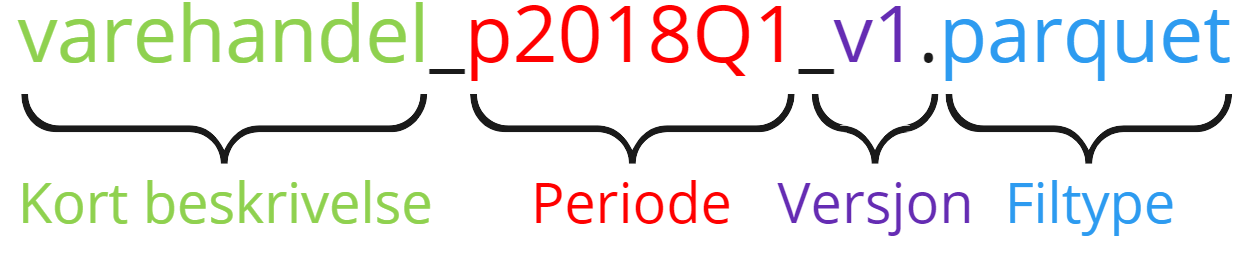
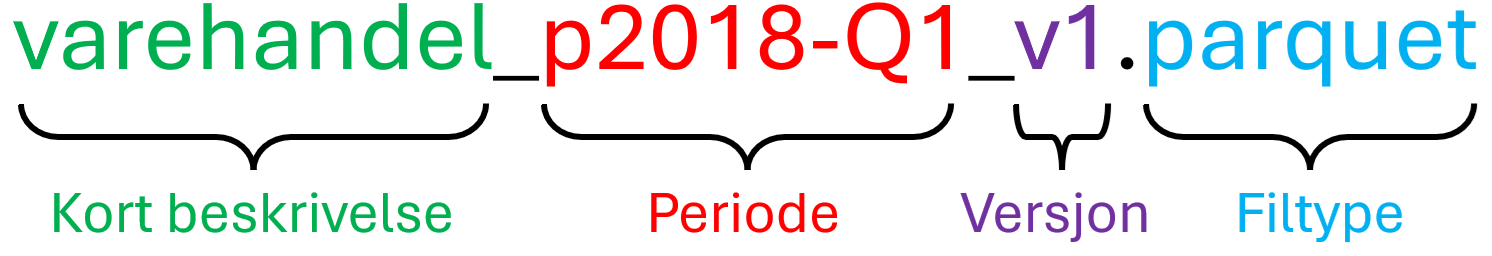
Built site for gh-pages

diff --git a/statistikkere/navnestandard.html b/statistikkere/navnestandard.html
@@ -726,7 +726,7 @@ Figur&nbsp;1: De ulike delene av et standardisert filnavn
 </figcaption>
 </figure>
 </div>
-<p>Eksempelet i <a href="#fig-filename-breakdown" class="quarto-xref">Figur&nbsp;1</a> har <strong>varehandel</strong> som kort beskrivelse, dataene er gyldige for <strong>2018Q1</strong>, versjon er <strong>1</strong> og filtypen er <strong>parquet</strong>. I tillegg ser vi at periodeangivelse alltid skal prefixes med <strong>p</strong> og versjon med <strong>v</strong>. Elementene i filnavnet skal skilles med understrek.</p>
+<p>Eksempelet i <a href="#fig-filename-breakdown" class="quarto-xref">Figur&nbsp;1</a> har <strong>varehandel</strong> som kort beskrivelse, dataene er gyldige for <strong>2018-Q1</strong>, versjon er <strong>1</strong> og filtypen er <strong>parquet</strong>. I tillegg ser vi at periodeangivelse alltid skal prefixes med <strong>p</strong> og versjon med <strong>v</strong>. Elementene i filnavnet skal skilles med understrek.</p>
 <p>Det er også verdt å merke seg at mellomrom og særnorske bokstaver som <strong>æ</strong>, <strong>ø</strong> og <strong>å</strong> ikke forekommer i filnavnet. Følgende alfanumeriske tegn kan benyttes i fil- og mappenavn:</p>
 <ul>
 <li><strong>a</strong>-<strong>z</strong> og <strong>A</strong>-<strong>Z</strong><a href="#fn2" class="footnote-ref" id="fnref2" role="doc-noteref"><sup>2</sup></a>.</li>
@@ -750,11 +750,11 @@ Tabell&nbsp;1: Autonomitet og tilganger i IaC-repo
 <tbody>
 <tr class="odd">
 <td>Kort beskrivelse</td>
-<td>Kort tekst som forklarer datasettets innhold, f.eks. “varehandel”, “personinntekt”, “grensehandel_imputert” eller “framskrevne-befolkningsendringer”</td>
+<td>Kort tekst som forklarer datasettets innhold, f.eks. “varehandel” eller “personinntekt”. Bruk bindestrek hvis beskrivelsen består av flere ord, f.eks. “grensehandel-imputert” eller “framskrevne-befolkningsendringer”.</td>
 </tr>
 <tr class="even">
 <td>Periode - inneholder data f.o.m. dato</td>
-<td>Datasettet inneholder data fra og med dato/tidspunkt. I filnavnet må perioden prefikses med “_p”, eksempel “_p2022” eller “_p2022-01-01”.&nbsp;“_p”&nbsp;er en forkortelse for “periode”.&nbsp;Se også <a href="https://statistics-norway.atlassian.net/wiki/spaces/MPD/pages/2953084957/Standardformater#Dato--og-tidsformater-(ISO-8601)">gyldige&nbsp;formater for periode (dato/tidspunkt)</a></td>
+<td>Datasettet inneholder data fra og med dato/tidspunkt. I filnavnet må perioden prefikses med “_p”, eksempel “_p2022” eller “_p2022-01-01”.&nbsp;Se også <a href="https://statistics-norway.atlassian.net/wiki/spaces/MPD/pages/2953084957/Standardformater#Dato--og-tidsformater-(ISO-8601)">gyldige&nbsp;formater for periode (dato/tidspunkt)</a></td>
 </tr>
 <tr class="odd">
 <td>Periode - inneholder data t.o.m. dato</td>
@@ -790,11 +790,11 @@ Tabell&nbsp;1: Autonomitet og tilganger i IaC-repo
 <tbody>
 <tr class="odd">
 <td>Én årgang med data</td>
-<td><em>flygende_objekter_p2019_v1.parquet</em></td>
+<td><em>flygende-objekter_p2019_v1.parquet</em></td>
 </tr>
 <tr class="even">
 <td>To årganger med data</td>
-<td><em>ufo_observasjoner_p2019_p2020_v1.parquet</em></td>
+<td><em>ufo-observasjoner_p2019_p2020_v1.parquet</em></td>
 </tr>
 <tr class="odd">
 <td>Fra 2019 til 2050</td>
@@ -810,31 +810,39 @@ Tabell&nbsp;1: Autonomitet og tilganger i IaC-repo
 </tr>
 <tr class="even">
 <td>Oktober, november og desember 2022</td>
-<td><em>grensehandel_imputert_p2022-10_p2022-12_v1.parquet</em></td>
+<td><em>grensehandel-imputert_p2022-10_p2022-12_v1.parquet</em></td>
 </tr>
 <tr class="odd">
+<td>Uke-nummer 1</td>
+<td><em>omsetning_p2020-W01_v1.parquet</em></td>
+</tr>
+<tr class="even">
 <td>Uke-nummer 15</td>
-<td><em>omsetning_p2020W15_v1.parquet</em></td>
+<td><em>omsetning_p2020-W15_v1.parquet</em></td>
 </tr>
-<tr class="even">
+<tr class="odd">
 <td>Første bimester i 2022</td>
-<td><em>skipsanloep_p2022B1_v1.parquet</em></td>
+<td><em>skipsanloep_p2022-B1_v1.parquet</em></td>
 </tr>
-<tr class="odd">
+<tr class="even">
 <td>Første kvartal i 2018 (quarter)</td>
-<td><em>pensjon_p2018Q1_v1.parquet</em></td>
-</tr>
-<tr class="even">
-<td>Første tertial i 2022</td>
-<td><em>nybilreg_p2022T1_v1.parquet</em></td>
+<td><em>pensjon_p2018-Q1_v1.parquet</em></td>
 </tr>
 <tr class="odd">
-<td>Første halvår i 2022</td>
-<td><em>personinntekt_p2022H1_v1.parquet</em></td>
+<td>Første tertial i 2022</td>
+<td><em>nybilreg_p2022-T1_v1.parquet</em></td>
 </tr>
 <tr class="even">
+<td>Første halvår i 2022</td>
+<td><em>personinntekt_p2022-H1_v1.parquet</em></td>
+</tr>
+<tr class="odd">
 <td>Kvartalene 1, 2, 3 og 4 i 2018</td>
-<td><em>varehandel_p2018Q1_p2018Q4_v1.parquet</em></td>
+<td><em>varehandel_p2018-Q1_p2018-Q4_v1.parquet</em></td>
+</tr>
+<tr class="even">
+<td>Dato 31.12.2024 og tid 23:59:30.000</td>
+<td><em>skjema_p2024-12-31T23-59-30.000_v1.parquet</em></td>
 </tr>
 </tbody>
 </table>
@@ -871,34 +879,34 @@ Tabell&nbsp;1: Autonomitet og tilganger i IaC-repo
 <div class="sourceCode" id="cb4" data-filename="Produktbøtta: ledstill, sykefra og ameld"><pre class="sourceCode yaml code-with-copy"><code class="sourceCode yaml"><span id="cb4-1"><a href="#cb4-1" aria-hidden="true" tabindex="-1"></a><span class="at">ssb-dapla-example-data-produkt-prod/</span></span>
 <span id="cb4-2"><a href="#cb4-2" aria-hidden="true" tabindex="-1"></a><span class="at">└─ ledstill/  </span></span>
 <span id="cb4-3"><a href="#cb4-3" aria-hidden="true" tabindex="-1"></a><span class="at">    ├── inndata/</span></span>
-<span id="cb4-4"><a href="#cb4-4" aria-hidden="true" tabindex="-1"></a><span class="at">    │   ├── skjema_p2024Q1_v1.parquet</span></span>
-<span id="cb4-5"><a href="#cb4-5" aria-hidden="true" tabindex="-1"></a><span class="at">    │   ├── skjema_p2024Q2_v1.parquet</span></span>
-<span id="cb4-6"><a href="#cb4-6" aria-hidden="true" tabindex="-1"></a><span class="at">    │   └── skjema_p2024Q2_v2.parquet</span></span>
+<span id="cb4-4"><a href="#cb4-4" aria-hidden="true" tabindex="-1"></a><span class="at">    │   ├── skjema_p2024-Q1_v1.parquet</span></span>
+<span id="cb4-5"><a href="#cb4-5" aria-hidden="true" tabindex="-1"></a><span class="at">    │   ├── skjema_p2024-Q2_v1.parquet</span></span>
+<span id="cb4-6"><a href="#cb4-6" aria-hidden="true" tabindex="-1"></a><span class="at">    │   └── skjema_p2024-Q2_v2.parquet</span></span>
 <span id="cb4-7"><a href="#cb4-7" aria-hidden="true" tabindex="-1"></a><span class="at">    ├── klargjorte-data/</span></span>
-<span id="cb4-8"><a href="#cb4-8" aria-hidden="true" tabindex="-1"></a><span class="at">    │   ├── editert_p2024Q1_v1.parquet</span></span>
-<span id="cb4-9"><a href="#cb4-9" aria-hidden="true" tabindex="-1"></a><span class="at">    │   └── editert_p2024Q2_v1.parquet</span></span>
+<span id="cb4-8"><a href="#cb4-8" aria-hidden="true" tabindex="-1"></a><span class="at">    │   ├── editert_p2024-Q1_v1.parquet</span></span>
+<span id="cb4-9"><a href="#cb4-9" aria-hidden="true" tabindex="-1"></a><span class="at">    │   └── editert_p2024-Q2_v1.parquet</span></span>
 <span id="cb4-10"><a href="#cb4-10" aria-hidden="true" tabindex="-1"></a><span class="at">    ├── statistikk/</span></span>
-<span id="cb4-11"><a href="#cb4-11" aria-hidden="true" tabindex="-1"></a><span class="at">    │   ├── aggregert_p2024Q1_v1.parquet</span></span>
-<span id="cb4-12"><a href="#cb4-12" aria-hidden="true" tabindex="-1"></a><span class="at">    │   └── aggregert_p2024Q2_v1.parquet        </span></span>
+<span id="cb4-11"><a href="#cb4-11" aria-hidden="true" tabindex="-1"></a><span class="at">    │   ├── aggregert_p2024-Q1_v1.parquet</span></span>
+<span id="cb4-12"><a href="#cb4-12" aria-hidden="true" tabindex="-1"></a><span class="at">    │   └── aggregert_p2024-Q2_v1.parquet        </span></span>
 <span id="cb4-13"><a href="#cb4-13" aria-hidden="true" tabindex="-1"></a><span class="at">    └── utdata/</span></span>
-<span id="cb4-14"><a href="#cb4-14" aria-hidden="true" tabindex="-1"></a><span class="at">    │   ├── statbank_p2024Q1_v1.parquet</span></span>
-<span id="cb4-15"><a href="#cb4-15" aria-hidden="true" tabindex="-1"></a><span class="at">    │   └── statbank_p2024Q2_v1.parquet   </span></span>
+<span id="cb4-14"><a href="#cb4-14" aria-hidden="true" tabindex="-1"></a><span class="at">    │   ├── statbank_p2024-Q1_v1.parquet</span></span>
+<span id="cb4-15"><a href="#cb4-15" aria-hidden="true" tabindex="-1"></a><span class="at">    │   └── statbank_p2024-Q2_v1.parquet   </span></span>
 <span id="cb4-16"><a href="#cb4-16" aria-hidden="true" tabindex="-1"></a><span class="at">    │</span></span>
 <span id="cb4-17"><a href="#cb4-17" aria-hidden="true" tabindex="-1"></a><span class="at">└─ sykefra/  </span></span>
 <span id="cb4-18"><a href="#cb4-18" aria-hidden="true" tabindex="-1"></a><span class="at">    ├── inndata/</span></span>
-<span id="cb4-19"><a href="#cb4-19" aria-hidden="true" tabindex="-1"></a><span class="at">    │   ├── egenmeldt_p2024Q1_v1.parquet</span></span>
-<span id="cb4-20"><a href="#cb4-20" aria-hidden="true" tabindex="-1"></a><span class="at">    │   ├── egenmeldt_p2024Q2_v1.parquet</span></span>
-<span id="cb4-21"><a href="#cb4-21" aria-hidden="true" tabindex="-1"></a><span class="at">    │   ├── legemeldt_p2024Q1_v1.parquet</span></span>
-<span id="cb4-22"><a href="#cb4-22" aria-hidden="true" tabindex="-1"></a><span class="at">    │   └── legemeldt_p2024Q2_v1.parquet</span></span>
+<span id="cb4-19"><a href="#cb4-19" aria-hidden="true" tabindex="-1"></a><span class="at">    │   ├── egenmeldt_p2024-Q1_v1.parquet</span></span>
+<span id="cb4-20"><a href="#cb4-20" aria-hidden="true" tabindex="-1"></a><span class="at">    │   ├── egenmeldt_p2024-Q2_v1.parquet</span></span>
+<span id="cb4-21"><a href="#cb4-21" aria-hidden="true" tabindex="-1"></a><span class="at">    │   ├── legemeldt_p2024-Q1_v1.parquet</span></span>
+<span id="cb4-22"><a href="#cb4-22" aria-hidden="true" tabindex="-1"></a><span class="at">    │   └── legemeldt_p2024-Q2_v1.parquet</span></span>
 <span id="cb4-23"><a href="#cb4-23" aria-hidden="true" tabindex="-1"></a><span class="at">    ├── klargjorte-data/</span></span>
-<span id="cb4-24"><a href="#cb4-24" aria-hidden="true" tabindex="-1"></a><span class="at">    │   ├── sykefravaer_p2024Q1_v1.parquet</span></span>
-<span id="cb4-25"><a href="#cb4-25" aria-hidden="true" tabindex="-1"></a><span class="at">    │   └── sykefravaer_p2024Q2_v1.parquet</span></span>
+<span id="cb4-24"><a href="#cb4-24" aria-hidden="true" tabindex="-1"></a><span class="at">    │   ├── sykefravaer_p2024-Q1_v1.parquet</span></span>
+<span id="cb4-25"><a href="#cb4-25" aria-hidden="true" tabindex="-1"></a><span class="at">    │   └── sykefravaer_p2024-Q2_v1.parquet</span></span>
 <span id="cb4-26"><a href="#cb4-26" aria-hidden="true" tabindex="-1"></a><span class="at">    ├── statistikk/</span></span>
-<span id="cb4-27"><a href="#cb4-27" aria-hidden="true" tabindex="-1"></a><span class="at">    │   ├── aggregert_p2024Q1_v1.parquet</span></span>
-<span id="cb4-28"><a href="#cb4-28" aria-hidden="true" tabindex="-1"></a><span class="at">    │   └── aggregert_p2024Q2_v1.parquet</span></span>
+<span id="cb4-27"><a href="#cb4-27" aria-hidden="true" tabindex="-1"></a><span class="at">    │   ├── aggregert_p2024-Q1_v1.parquet</span></span>
+<span id="cb4-28"><a href="#cb4-28" aria-hidden="true" tabindex="-1"></a><span class="at">    │   └── aggregert_p2024-Q2_v1.parquet</span></span>
 <span id="cb4-29"><a href="#cb4-29" aria-hidden="true" tabindex="-1"></a><span class="at">    └── utdata/</span></span>
-<span id="cb4-30"><a href="#cb4-30" aria-hidden="true" tabindex="-1"></a><span class="at">    │   ├── statbank_p2024Q1_v1.parquet</span></span>
-<span id="cb4-31"><a href="#cb4-31" aria-hidden="true" tabindex="-1"></a><span class="at">    │   └── statbank_p2024Q2_v1.parquet</span></span>
+<span id="cb4-30"><a href="#cb4-30" aria-hidden="true" tabindex="-1"></a><span class="at">    │   ├── statbank_p2024-Q1_v1.parquet</span></span>
+<span id="cb4-31"><a href="#cb4-31" aria-hidden="true" tabindex="-1"></a><span class="at">    │   └── statbank_p2024-Q2_v1.parquet</span></span>
 <span id="cb4-32"><a href="#cb4-32" aria-hidden="true" tabindex="-1"></a><span class="at">    │</span></span>
 <span id="cb4-33"><a href="#cb4-33" aria-hidden="true" tabindex="-1"></a><span class="at">└─ ameld_data/  </span></span>
 <span id="cb4-34"><a href="#cb4-34" aria-hidden="true" tabindex="-1"></a><span class="at">    ├── inndata/</span></span>
@@ -953,7 +961,7 @@ Unntak til versjonering: nyeste versjon og temporære data
 </div>
 <div class="sourceCode" id="cb5" data-filename="Mappe med flere versjoner av et datasett"><pre class="sourceCode yaml code-with-copy"><code class="sourceCode yaml"><span id="cb5-1"><a href="#cb5-1" aria-hidden="true" tabindex="-1"></a><span class="at">ssb-prod-team-personstatistikk-data-produkt-prod/  </span></span>
 <span id="cb5-2"><a href="#cb5-2" aria-hidden="true" tabindex="-1"></a><span class="at">└── befolkningsframskrivinger/  </span></span>
-<span id="cb5-3"><a href="#cb5-3" aria-hidden="true" tabindex="-1"></a><span class="at">    └── klargjorte_data/  </span></span>
+<span id="cb5-3"><a href="#cb5-3" aria-hidden="true" tabindex="-1"></a><span class="at">    └── klargjorte-data/  </span></span>
 <span id="cb5-4"><a href="#cb5-4" aria-hidden="true" tabindex="-1"></a><span class="at">        ├── framskrevne-befolkningsendringer_p2019_p2050.parquet  </span></span>
 <span id="cb5-5"><a href="#cb5-5" aria-hidden="true" tabindex="-1"></a><span class="at">        ├── framskrevne-befolkningsendringer_p2019_p2050_v1.parquet  </span></span>
 <span id="cb5-6"><a href="#cb5-6" aria-hidden="true" tabindex="-1"></a><span class="at">        ├── framskrevne-befolkningsendringer_p2019_p2050_v2.parquet  </span></span>
@@ -974,7 +982,7 @@ Unntak til versjonering: nyeste versjon og temporære data
 <div class="sourceCode" id="cb6" data-filename="Python kode fra SSB-fagfunksjoner for finne neste versjonsnummer"><pre class="sourceCode python yaml code-with-copy"><code class="sourceCode python"><span id="cb6-1"><a href="#cb6-1" aria-hidden="true" tabindex="-1"></a><span class="co"># importer funksjonen get_next_version_number() fra ssb-fagfunksjoner</span></span>
 <span id="cb6-2"><a href="#cb6-2" aria-hidden="true" tabindex="-1"></a><span class="im">from</span> fagfunksjoner <span class="im">import</span> get_next_version_number</span>
 <span id="cb6-3"><a href="#cb6-3" aria-hidden="true" tabindex="-1"></a></span>
-<span id="cb6-4"><a href="#cb6-4" aria-hidden="true" tabindex="-1"></a>filsti <span class="op">=</span> <span class="st">'gs://ssb-prod-team-personstatistikk-data-produkt-prod/befolkningsframskrivninger/klargjorte_data/framskrevne-befolkningsendringer_p2019_p2050.parquet'</span></span>
+<span id="cb6-4"><a href="#cb6-4" aria-hidden="true" tabindex="-1"></a>filsti <span class="op">=</span> <span class="st">'gs://ssb-prod-team-personstatistikk-data-produkt-prod/befolkningsframskrivninger/klargjorte-data/framskrevne-befolkningsendringer_p2019_p2050.parquet'</span></span>
 <span id="cb6-5"><a href="#cb6-5" aria-hidden="true" tabindex="-1"></a></span>
 <span id="cb6-6"><a href="#cb6-6" aria-hidden="true" tabindex="-1"></a>neste_versjon <span class="op">=</span> get_next_version_number(filsti)</span>
 <span id="cb6-7"><a href="#cb6-7" aria-hidden="true" tabindex="-1"></a></span>

diff --git a/blog/index.html b/blog/index.html
@@ -316,7 +316,7 @@ window.Quarto = {
 
 <div class="quarto-listing quarto-listing-container-default" id="listing-listing">
 <div class="list quarto-listing-default">
-<div class="quarto-post image-right" data-index="0" data-categories="Pseudonymisering,Python,dapla-toolbelt-pseudo" data-listing-date-sort="1720656000000" data-listing-file-modified-sort="1727709420451" data-listing-date-modified-sort="1727049600000" data-listing-reading-time-sort="6" data-listing-word-count-sort="1003">
+<div class="quarto-post image-right" data-index="0" data-categories="Pseudonymisering,Python,dapla-toolbelt-pseudo" data-listing-date-sort="1720656000000" data-listing-file-modified-sort="1727847439066" data-listing-date-modified-sort="1727049600000" data-listing-reading-time-sort="6" data-listing-word-count-sort="1003">
 <div class="thumbnail">
 <p><a href="../blog/posts/2024-07-11-pseudo-testdata/index.html" class="no-external"></a></p><a href="../blog/posts/2024-07-11-pseudo-testdata/index.html" class="no-external">
 <div class="listing-item-img-placeholder card-img-top" >&nbsp;</div>
@@ -355,7 +355,7 @@ Jul 11, 2024
 </a>
 </div>
 </div>
-<div class="quarto-post image-right" data-index="1" data-categories="Python,Arkiv,Datadok,Parquet" data-listing-date-sort="1705622400000" data-listing-file-modified-sort="1727709420451" data-listing-date-modified-sort="1705881600000" data-listing-reading-time-sort="7" data-listing-word-count-sort="1284">
+<div class="quarto-post image-right" data-index="1" data-categories="Python,Arkiv,Datadok,Parquet" data-listing-date-sort="1705622400000" data-listing-file-modified-sort="1727847439066" data-listing-date-modified-sort="1705881600000" data-listing-reading-time-sort="7" data-listing-word-count-sort="1284">
 <div class="thumbnail">
 <p><a href="../blog/posts/2023-01-19-fra-arkiv-til-parquet/index.html" class="no-external"></a></p><a href="../blog/posts/2023-01-19-fra-arkiv-til-parquet/index.html" class="no-external">
 <p><img loading="lazy" src="../images/parquet-logo.jpg" class="thumbnail-image"></p>
@@ -397,7 +397,7 @@ Carl F. Corneil
 </a>
 </div>
 </div>
-<div class="quarto-post image-right" data-index="2" data-categories="Fame,Python,Tidsserier" data-listing-date-sort="1705017600000" data-listing-file-modified-sort="1727709420451" data-listing-date-modified-sort="1705363200000" data-listing-reading-time-sort="7" data-listing-word-count-sort="1330">
+<div class="quarto-post image-right" data-index="2" data-categories="Fame,Python,Tidsserier" data-listing-date-sort="1705017600000" data-listing-file-modified-sort="1727847439066" data-listing-date-modified-sort="1705363200000" data-listing-reading-time-sort="7" data-listing-word-count-sort="1330">
 <div class="thumbnail">
 <p><a href="../blog/posts/2023-01-12-fame-extractor-python/index.html" class="no-external"></a></p><a href="../blog/posts/2023-01-12-fame-extractor-python/index.html" class="no-external">
 <p><img loading="lazy" src="../blog/posts/2023-01-12-fame-extractor-python/fame.png" class="thumbnail-image" alt="Bilde av Fame-logoen"></p>
@@ -436,7 +436,7 @@ Magnus Kvåle Helliesen
 </a>
 </div>
 </div>
-<div class="quarto-post image-right" data-index="3" data-categories="Quarto" data-listing-date-sort="1704931200000" data-listing-file-modified-sort="1727709420451" data-listing-date-modified-sort="1704931200000" data-listing-reading-time-sort="3" data-listing-word-count-sort="415">
+<div class="quarto-post image-right" data-index="3" data-categories="Quarto" data-listing-date-sort="1704931200000" data-listing-file-modified-sort="1727847439066" data-listing-date-modified-sort="1704931200000" data-listing-reading-time-sort="3" data-listing-word-count-sort="415">
 <div class="thumbnail">
 <p><a href="../blog/posts/2023-01-11-hvorfor-en-blogg/index.html" class="no-external"></a></p><a href="../blog/posts/2023-01-11-hvorfor-en-blogg/index.html" class="no-external">
 <p><img loading="lazy" src="../images/dapla-long.png" class="thumbnail-image" alt="Bilde av Fame-logoen"></p>
